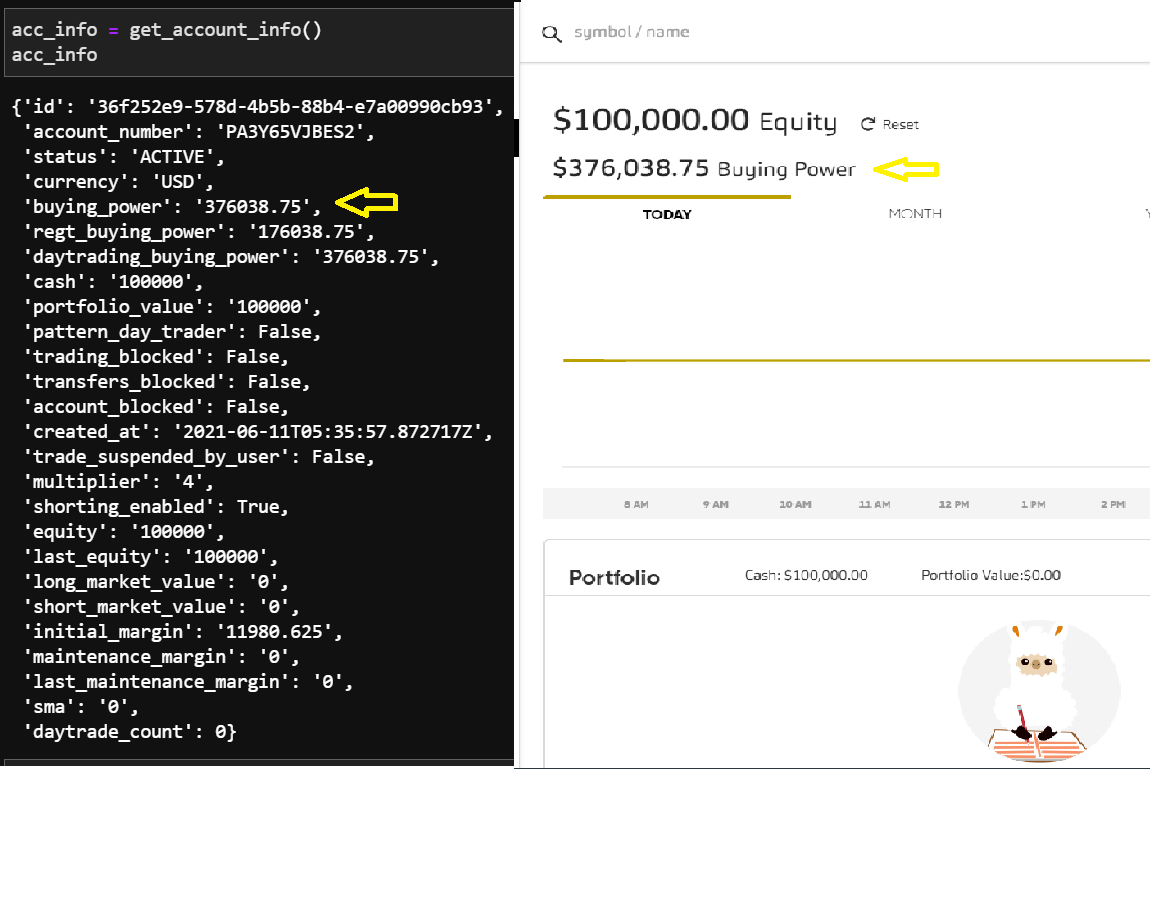
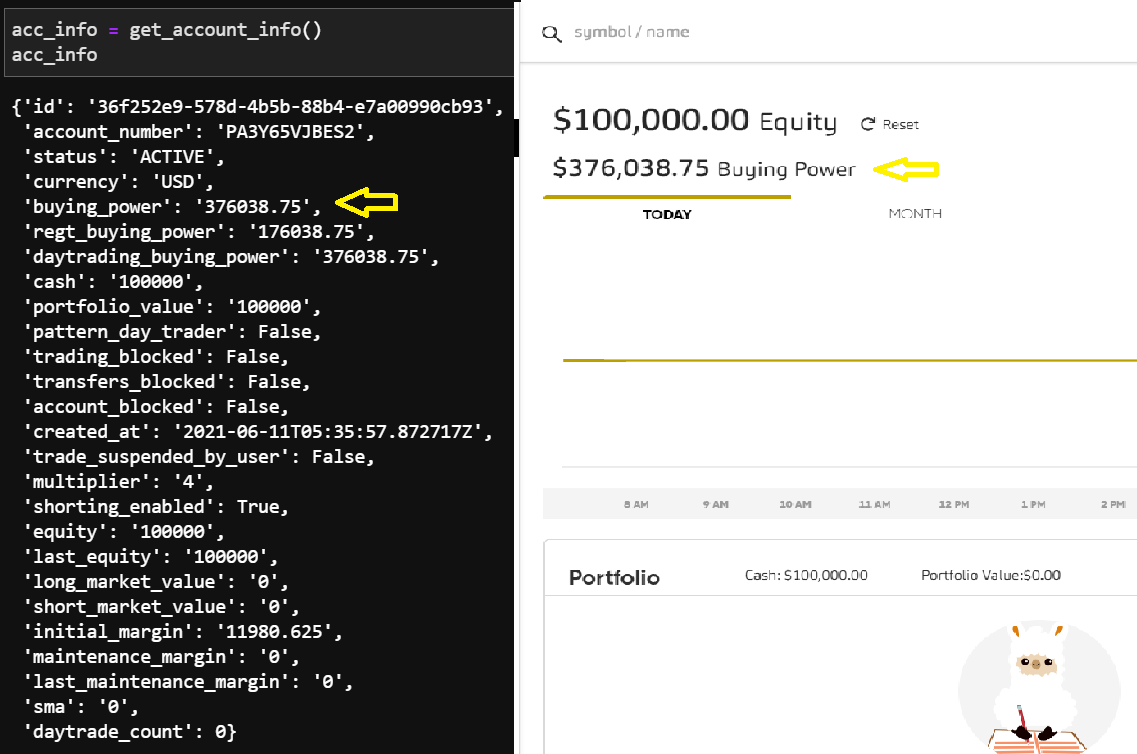
Updated README.MD

diff --git a/README.md b/README.md
@@ -1,2 +1,35 @@
-# alpaca_paper_trading
-paper trading with alpaca api 
+# Alpaca Paper Trading 
+## Overview
+In this notebook, we will use `Python` and the `requests` library to test different endpoints of the `alpaca api`. Keep in mind that software development kits are available for Alpaca, the purpose of this notebook is to practice making raw api calls to have a better understanding of how they work. Please refer to the official [documentation](https://alpaca.markets/docs/api-documentation/) for further support.
+
+### Tools 
+* Jupyer lab
+* Postman
+* Alpaca Paper Trading Account
+* Python
+
+### Create Free Alpaca Account
+Download and store your api keys in a `.env` file. Alpaca will give you $100,000 in equity and $400,000 in buying power to begin experimenting with live trades. 
+
+![images](images/alpaca_before.png)
+
+### Develop Functions to Interact With Alpaca
+
+#### Placing Orders
+```python 
+# create list 
+symbols = ['AAPL', 'NFLX', 'FB']
+# loop through list to place orders
+for i in symbols:
+    # call create order function
+    response = create_order(i, 25, 'buy', 'market', 'gtc')
+```
+After the running the `for loop`, we can go to our alpaca dashboard to confirm our orders went through.
+
+![orders](images/alpaca_orders.png)
+
+
+We can also use the api to fetch the latest account information.
+
+![acc_info](images/alpaca_after.png)
+
